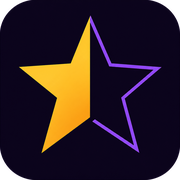
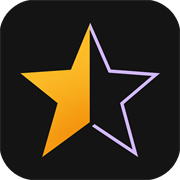
Desktop update Wed 05/13/2026  6:54:14.78

diff --git a/assets/public/index.html b/assets/public/index.html
@@ -26,12 +26,12 @@
 <meta name="mobile-web-app-capable" content="yes">
 <meta name="apple-mobile-web-app-status-bar-style" content="black-translucent">
 <meta name="apple-mobile-web-app-title" content="Shelfd">
-<link rel="icon" href="/favicon.ico?v=643_revert_old_icon_again" sizes="any">
+<link rel="icon" href="/favicon.ico?v=910_pwa_home_icon_star" sizes="any">
 <link rel="icon" type="image/png" sizes="32x32" href="/icon-32.png?v=643_revert_old_icon_again">
-<link rel="icon" type="image/png" sizes="192x192" href="/icon-192.png?v=643_revert_old_icon_again">
-<link rel="icon" type="image/png" sizes="512x512" href="/icon-512.png?v=643_revert_old_icon_again">
-<link rel="apple-touch-icon" sizes="180x180" href="/apple-touch-icon.png?v=643_revert_old_icon_again">
-<link rel="manifest" href="/site.webmanifest?v=643_revert_old_icon_again">
+<link rel="icon" type="image/png" sizes="192x192" href="/icon-192.png?v=910_pwa_home_icon_star">
+<link rel="icon" type="image/png" sizes="512x512" href="/icon-512.png?v=910_pwa_home_icon_star">
+<link rel="apple-touch-icon" sizes="180x180" href="/apple-touch-icon.png?v=910_pwa_home_icon_star">
+<link rel="manifest" href="/site.webmanifest?v=910_pwa_home_icon_star">
 
 <meta property="og:title" content="Shelfd">
 <meta property="og:description" content="Track your shows, movies, anime, games, books, and more.">
@@ -98,8 +98,8 @@
 <link rel="stylesheet" href="/css/16-light-mode-contrast.css?v=900_activity_spacing_tune">
 <link rel="stylesheet" href="/css/17-auth-flow-setup.css?v=909_remove_creator_divider">
 
-<meta name="screenlist-build-version" content="2026-05-13-v909_remove_creator_divider">
-<script>window.SCREENLIST_BUILD_VERSION = "2026-05-13-v909_remove_creator_divider"; window.SCREENLIST_DISPLAY_VERSION = "v.909-May 13th, 2026";</script>
+<meta name="screenlist-build-version" content="2026-05-13-v910_pwa_home_icon_star">
+<script>window.SCREENLIST_BUILD_VERSION = "2026-05-13-v910_pwa_home_icon_star"; window.SCREENLIST_DISPLAY_VERSION = "v.910-May 13th, 2026";</script>
 <script>
   window.__shelfdGuestContinueQueued = false;
   window.continueWithoutSignIn = window.continueWithoutSignIn || function() {
@@ -1638,7 +1638,7 @@
      graceful auto-reload via 00-live-update-pwa.js. */
   if ('serviceWorker' in navigator) {
     window.addEventListener('load', () => {
-      navigator.serviceWorker.register('/sw.js?v=909-remove-creator-divider', { updateViaCache: 'none' })
+      navigator.serviceWorker.register('/sw.js?v=910-pwa-home-icon-star', { updateViaCache: 'none' })
         .then(registration => {
           if (registration && typeof registration.update === 'function') {
             registration.update().catch(error => console.warn('Shelfd service worker update check failed:', error));

diff --git a/assets/public/sw.js b/assets/public/sw.js
@@ -6,7 +6,7 @@
    bump, the SW bytes were byte-identical across deploys, no new install
    happened, and PWAs sat on stale JS until the user manually deleted
    and re-added the home-screen app. */
-const CACHE = 'shelfd-v909-remove-creator-divider';
+const CACHE = 'shelfd-v910-pwa-home-icon-star';
 
 const STATIC_CACHE_PATHS = [
   '/icon-192.png',
